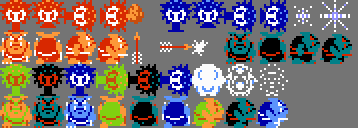
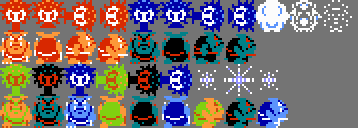
Added : Octorock can shoot rocks. They hurt the player, don't hurt the monsters, and disappear upon collision with either player or level obstacles. Shield doesn't yet block incoming particles
Removed : dead code in Player (animate_despawn)

Changed region(s): [[0.338, 0.0, 0.9832, 0.75], [0.7374, 0.6875, 0.7989, 0.75]]

diff --git a/code/enemies.py b/code/enemies.py
@@ -4,12 +4,14 @@ import random
 from settings import *
 from debug import debug
 from entities import Entity
+from particles import Rock
 
 
 # Known issue : Monster waits for 'attacking' to end before getting hurt
 class Enemy(Entity):
-    def __init__(self, pos, groups, obstacle_sprites, particle_sprites, enemies_tile_set, uses_projectiles=False):
-        super().__init__(groups, obstacle_sprites, particle_sprites)
+    def __init__(self, pos, groups, visible_sprites, obstacle_sprites, particle_sprites,
+                 enemies_tile_set, particle_tileset, uses_projectiles=False):
+        super().__init__(groups, visible_sprites, obstacle_sprites, particle_sprites, particle_tileset)
 
         self.direction_label = random.choice(['up', 'down', 'left', 'right'])
         self.state = 'walking'
@@ -26,8 +28,9 @@ class Enemy(Entity):
         # Monsters always move, except if shooting, or special mechanic such as flying, jumping, diving(water/land)
         self.uses_projectiles = uses_projectiles
         self.can_attack = self.uses_projectiles
+        self.has_attacked = True
         self.attack_cooldown = random.randrange(1600, 4800, 100)
-        self.attack_starting_time = 0
+        self.attack_starting_time = pygame.time.get_ticks()
         self.can_move = True
         self.direction_cooldown = 200
         self.direction_starting_time = 0
@@ -61,9 +64,9 @@ class Enemy(Entity):
 
         # Monster can shoot if he isn't in the hurt animation. Attack cooldown is randomized
         if self.uses_projectiles and 'hurt' not in self.state:
-            if not self.can_attack:
+            if self.has_attacked:
                 if current_time - self.attack_starting_time >= self.attack_cooldown:
-                    self.can_attack = True
+                    self.has_attacked = False
                     self.attack_cooldown = random.randrange(1600, 4800, 100)
                 if self.state == 'attacking':
                     if current_time - self.attack_starting_time >= self.action_animation_cooldown * 2:
@@ -178,25 +181,33 @@ class Enemy(Entity):
         self.rect.center = self.hitbox.center
 
     @abc.abstractmethod
+    def attack(self):
+        pass
+
+    @abc.abstractmethod
     def update(self):
         current_time = pygame.time.get_ticks()
 
         # Attacks interrupt movements if available.
         if 'hurt' not in self.state:
             self.current_speed = self.speed
-            if self.state == 'walking' and current_time - self.direction_starting_time >= self.direction_cooldown:
+            if (self.isSpawned
+                    and self.state == 'walking'
+                    and current_time - self.direction_starting_time >= self.direction_cooldown):
                 self.direction_label = random.choice(['up', 'down', 'left', 'right'])
                 self.direction_starting_time = current_time
                 self.direction_cooldown = random.randrange(500, 2000, 100)
-            if self.can_attack:
+            if self. isSpawned and self.can_attack and not self.has_attacked:
                 self.state = 'attacking'
                 self.attack_starting_time = current_time
-                self.can_attack = False
         else:
             # While hurt, Monster is repelled with a fading speed
             self.current_speed = (MONSTER_HURT_FRAMES - self.hurt_animation_frame_count)
-        if not self.isDead:
-            if self.state != 'attacking':
+        if self.isSpawned and not self.isDead:
+            if self.state == 'attacking' and not self.has_attacked:
+                self.attack()
+                self.has_attacked = True
+            elif self.state != 'attacking':
                 self.move()
             if self.health <= 0:
                 self.despawn_animation_starting_time = pygame.time.get_ticks()
@@ -209,8 +220,10 @@ class Enemy(Entity):
 
 
 class RedOctorock(Enemy):
-    def __init__(self, pos, groups, obstacle_sprites, particle_sprites, enemies_tile_set):
-        super().__init__(pos, groups, obstacle_sprites, particle_sprites, enemies_tile_set, True)
+    def __init__(self, pos, groups, visible_sprites, obstacle_sprites, particle_sprites,
+                 enemies_tileset, particle_tileset):
+        super().__init__(pos, groups, visible_sprites, obstacle_sprites, particle_sprites,
+                         enemies_tileset, particle_tileset, True)
         self.health = RED_OCTOROCK_HEALTH
         self.collision_damage = RED_OCTOROCK_DMG
 
@@ -295,6 +308,14 @@ class RedOctorock(Enemy):
 
     def move(self):
         super().move()
+
+    def attack(self):
+        Rock(self.rect.topleft,
+             self.direction_vector,
+             [self.visible_sprites, self.particle_sprites],
+             self.direction_label,
+             self.particle_tileset,
+             self.obstacle_sprites)
 
     def update(self):
         super().update()

diff --git a/code/particles.py b/code/particles.py
@@ -59,10 +59,8 @@ class Particle(pygame.sprite.Sprite, ABC):
 
 class WoodenSword(Particle):
     def __init__(self, owner_pos, owner_direction_vector, owner_direction_label,
-                 groups, enemy_sprites, particle_tileset):
+                 groups, particle_tileset):
         super().__init__(owner_pos, owner_direction_vector, groups)
-
-        self.enemy_sprites = enemy_sprites
 
         self.owner_pos = owner_pos
         self.pos_x = owner_pos[0]
@@ -148,4 +146,73 @@ class WoodenSword(Particle):
 
     def update(self):
         self.animate()
+        pygame.display.get_surface().blit(self.image, self.rect.topleft)
+
+
+class Rock(Particle):
+    def __init__(self, owner_pos,
+                 owner_direction_vector,
+                 groups,
+                 owner_direction_label,
+                 particle_tileset,
+                 obstacle_sprites):
+        super().__init__(owner_pos, owner_direction_vector, groups)
+
+        self.obstacle_sprites = obstacle_sprites
+
+        self.owner_pos = owner_pos
+        self.pos_x = owner_pos[0]
+        self.pos_y = owner_pos[1]
+
+        match owner_direction_label:
+            case 'up':
+                self.direction_vector.x = 0
+                self.direction_vector.y = -1
+            case 'right':
+                self.direction_vector.x = 1
+                self.direction_vector.y = 0
+            case 'down':
+                self.direction_vector.x = 0
+                self.direction_vector.y = 1
+            case 'left':
+                self.direction_vector.x = -1
+                self.direction_vector.y = 0
+
+        self.move_animation_frame_count = 0
+        self.move_animations = []
+
+        self.load_animation_frames(particle_tileset)
+
+        self.image = self.move_animations[0]
+        self.rect = self.image.get_rect(topleft=(self.pos_x, self.pos_y))
+        self.hitbox = self.rect.inflate(-16, -12)
+        self.hitbox.left = self.rect.left
+        self.hitbox.top = self.rect.top + 4
+
+        self.affects_player = True
+        self.collision_damage = ROCK_DMG
+
+        self.is_active = True
+
+    def load_animation_frames(self, particle_tileset):
+        self.move_animations.append(particle_tileset.get_sprite_image(ROCK_FRAME_ID))
+
+    def animate(self):
+        # This particle moves, but isn't animated
+        pass
+
+    def collision(self):
+        for sprite in self.obstacle_sprites:
+            if sprite.hitbox.colliderect(self.hitbox):
+                self.kill()
+
+    def move(self):
+        self.hitbox.x += self.direction_vector.x * ROCK_SPEED
+        self.rect.x += self.direction_vector.x * ROCK_SPEED
+        self.hitbox.y += self.direction_vector.y * ROCK_SPEED
+        self.rect.y += self.direction_vector.y * ROCK_SPEED
+
+    def update(self):
+        self.move()
+        self.collision()
         pygame.display.get_surface().blit(self.image, self.rect.topleft)

diff --git a/code/player.py b/code/player.py
@@ -28,13 +28,11 @@ from particles import WoodenSword
 class Player(Entity):
     def __init__(self, pos, groups, obstacle_sprites, enemy_sprites, visible_sprites, particle_sprites,
                  player_tile_set, particle_tileset):
-        super().__init__(groups, obstacle_sprites, particle_sprites)
+        super().__init__(groups, visible_sprites, obstacle_sprites, particle_sprites, particle_tileset)
 
         self.enemy_sprites = enemy_sprites
         self.visible_sprites = visible_sprites
         self.particle_sprites = particle_sprites
-
-        self.particle_tileset = particle_tileset
 
         self.action_animations = {
             'up': [],
@@ -201,7 +199,7 @@ class Player(Entity):
             self.direction_vector.x = 0
             self.direction_vector.y = 0
             self.action_particle = WoodenSword(self.rect.topleft, self.direction_vector, self.direction_label,
-                                               [self.visible_sprites, self.particle_sprites], self.enemy_sprites,
+                                               [self.visible_sprites, self.particle_sprites],
                                                self.particle_tileset)
 
         # Cast input has prio over Attack input
@@ -318,6 +316,7 @@ class Player(Entity):
                     self.hitbox.x += self.current_speed*self.direction_vector.x
                     self.hitbox.y += self.current_speed*self.direction_vector.y
                     self.health -= particle.collision_damage
+                    particle.kill()
 
     def move(self):
         if self.direction_vector.magnitude() != 0:
@@ -406,22 +405,6 @@ class Player(Entity):
                     self.despawn_animation_frame_count = 0
         else:
             debug(f'Error : animate({self.state}) does not exist')
-
-    def animate_despawn(self):
-        despawn_starting_time = pygame.time.get_ticks()
-        despawn_duration = 500
-        self.image = self.despawn_animation[0]
-        pygame.display.get_surface().blit(self.image, self.rect.topleft)
-        pygame.display.update()
-        elapsed_despawn_time = pygame.time.get_ticks() - despawn_starting_time
-        while elapsed_despawn_time < despawn_duration:
-            # PLAYER_DEATH_FRAMES frames
-            # spread over despawn_duration ms
-            frame_time = despawn_duration // PLAYER_DEATH_FRAMES
-            current_frame = int(elapsed_despawn_time // frame_time)
-            self.image = self.despawn_animation[current_frame]
-            pygame.display.get_surface().blit(self.image, self.rect.topleft)
-            pygame.display.update()
 
     def update(self):
         if not self.isDead:

diff --git a/code/level.py b/code/level.py
@@ -218,9 +218,11 @@ class Level:
                 if sprite_id == 4:
                     RedOctorock((x, y),
                                 [self.visible_sprites, self.enemy_sprites],
+                                self.visible_sprites,
                                 self.obstacle_sprites,
                                 self.particle_sprites,
-                                self.enemies_tile_set)
+                                self.enemies_tile_set,
+                                self.particle_tile_set)
 
     def load_player(self):
         layout = import_csv_layout(f'../map/{self.current_level}_Player.csv')
@@ -320,7 +322,7 @@ class Level:
         if self.death_motion_index > 7:
             self.draw_floor('black')
 
-        # call player.beGray()
+        # put player in gray state for animation
         if self.death_motion_index == 8:
             if self.death_gray_starting_time == 0:
                 self.death_gray_starting_time = pygame.time.get_ticks()
@@ -328,7 +330,7 @@ class Level:
             if pygame.time.get_ticks() - self.death_gray_starting_time >= self.death_gray_cooldown:
                 self.death_motion_index += 1
 
-        # call player.animate_despawn()
+        # put player in despawn state for animation
         if self.death_motion_index == 9:
             if self.death_despawn_starting_time == 0:
                 self.death_despawn_starting_time = pygame.time.get_ticks()

diff --git a/code/settings.py b/code/settings.py
@@ -17,6 +17,8 @@ RED_OCTOROCK_HEALTH = 32
 RED_OCTOROCK_DMG = 128
 BLUE_OCTOROCK_HEALTH = 32
 BLUE_OCTOROCK_DMG = 128
+ROCK_DMG = 128
+ROCK_SPEED = 2
 ORANGE_MOBLIN_HEALTH = 32
 ORANGE_MOBLIN_DMG = 128
 BLACK_MOBLIN_HEALTH = 48
@@ -59,15 +61,16 @@ WOOD_SWORD_UP_FRAME_ID = 0
 WOOD_SWORD_RIGHT_FRAME_ID = 6
 WOOD_SWORD_DOWN_FRAME_ID = 12
 WOOD_SWORD_DURATION = 500
-WTF_IS_THIS = 130
+ROCK_FRAME_ID = 40
+MAGIC_EXPLOSION_TOP_LEFT_SPRITE = 130
 
 # MONSTER ANIMATION & COOLDOWNS
 MONSTER_SPAWN_FRAMES = 3
-MONSTER_SPAWN_FRAME_ID = 100
+MONSTER_SPAWN_FRAME_ID = 16
 MONSTER_SPAWN_ANIMATION_COOLDOWN = 200
 MONSTER_HURT_FRAMES = 3
-MONSTER_DEATH_FRAMES = 2
-MONSTER_DEATH_FRAME_ID = 18
+MONSTER_DEATH_FRAMES = 3
+MONSTER_DEATH_FRAME_ID = 100
 MONSTER_DEATH_ANIMATION_COOLDOWN = 200
 MONSTER_HURT_ANIMATION_COOLDOWN = 100
 # OCTOROCK ANIMATION & COOLDOWNS

diff --git a/code/entities.py b/code/entities.py
@@ -4,11 +4,13 @@ from abc import ABC
 
 
 class Entity(pygame.sprite.Sprite, ABC):
-    def __init__(self, groups, obstacle_sprites, particle_sprites):
+    def __init__(self, groups, visible_sprites, obstacle_sprites, particle_sprites, particle_tileset):
         super().__init__(groups)
 
+        self.visible_sprites = visible_sprites
         self.obstacle_sprites = obstacle_sprites
         self.particle_sprites = particle_sprites
+        self.particle_tileset = particle_tileset
         self.walking_animations = {
             'up': [],
             'right': [],
